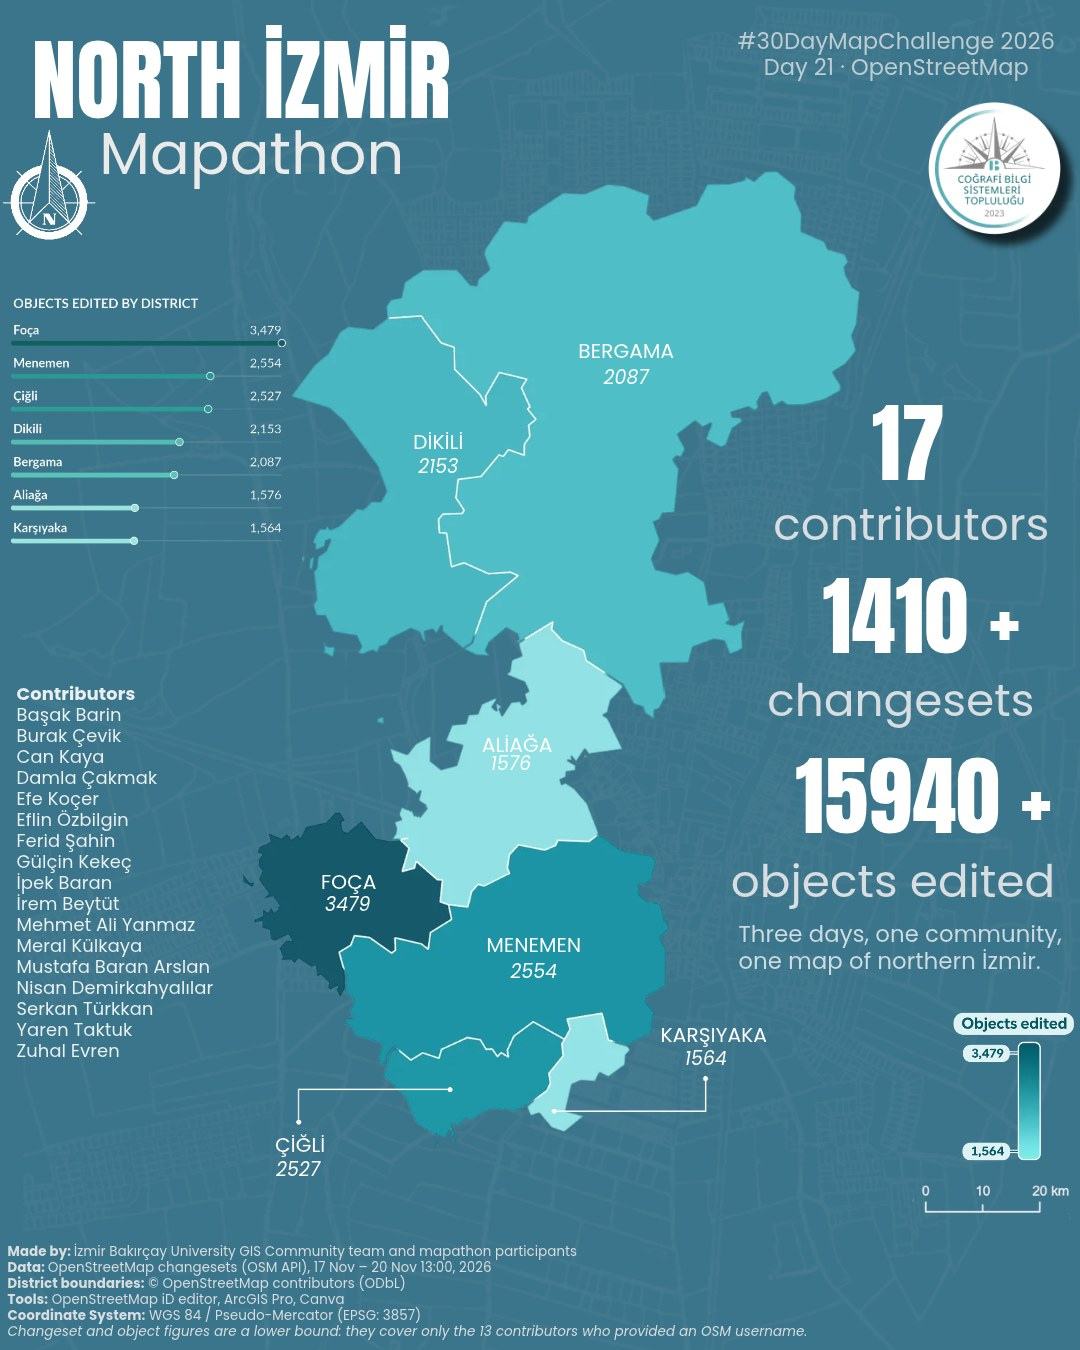
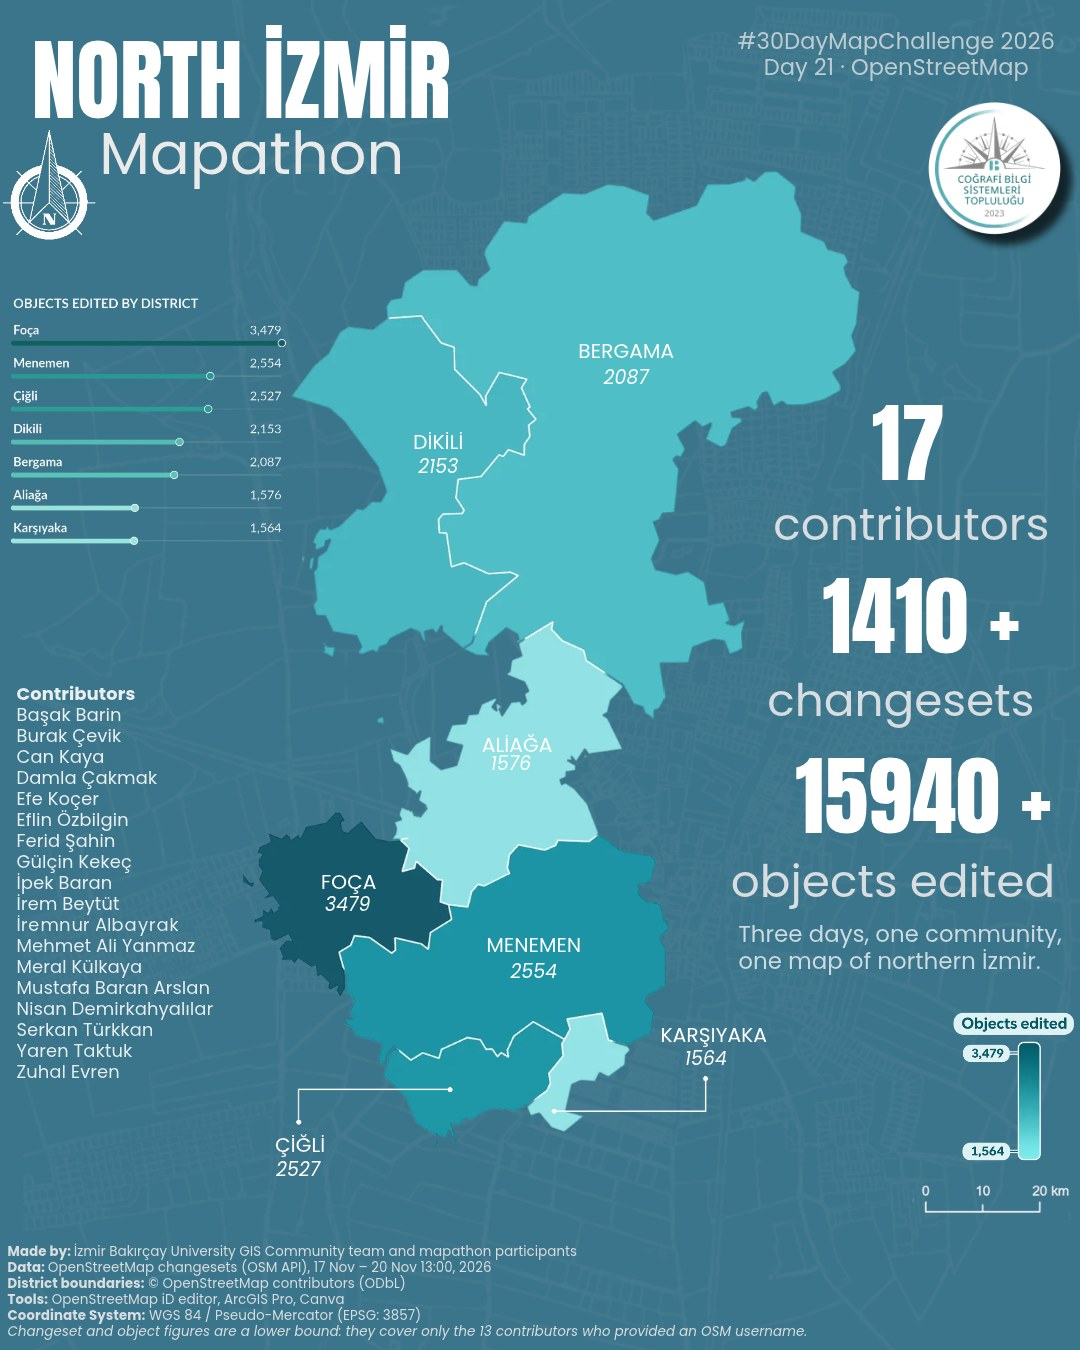
Güncelleme

Changed region(s): [[0.0, 0.6844, 0.2139, 0.8089]]

diff --git a/assets/data.js b/assets/data.js
@@ -187,7 +187,7 @@ window.KOLEKSIYON = [
   {"n": 18, "date": "2026-11-18", "title": "The Wallace Line", "author": "İrem Beytüt", "ig": "https://www.instagram.com/irembeytutt/", "li": "https://www.linkedin.com/in/irem-beytüt-95b25a448", "image": "maps/gun18.jpg", "data": "Natural Earth, Cultural and Physical Vector data", "tool": "ArcGIS Pro, Canva / Illustrator", "link": ""},
   {"n": 19, "date": "2026-11-19", "title": "Can a Map Have a Scent?", "author": "Nisan Demirkahyalılar", "ig": "https://www.instagram.com/nisandemirk_/", "li": "https://www.linkedin.com/in/nisan-demirkahyalılar-75594840a", "image": "maps/gun19.jpg", "data": "Wikimedia Commons Botanical Database,Copernicus DEM(2011-2015),Humanitarian Data Exchange (HDX),Wikimedia.org", "tool": "ArcGIS Pro, Canva / Illustrator", "link": ""},
   {"n": 20, "date": "2026-11-20", "title": "Türkiye's Honeybee Colonies", "author": "Mustafa Baran Arslan", "ig": "", "li": "https://www.linkedin.com/in/mustafa-baran-arslan-4625a5294/", "image": "maps/gun20.jpg", "data": "TÜİK 2025, Arıcılık Araştırma Enstitüsü", "tool": "ArcGIS Pro, GIMP", "link": ""},
-  {"n": 21, "date": "2026-11-21", "title": "North İzmir Mapathon", "author": "BakırçayCBS ekibi", "ig": "https://www.instagram.com/bakircaycbs/", "li": "https://www.linkedin.com/in/izmir-bak%C4%B1r%C3%A7ay-cbs-toplulu%C4%9Fu-49ba323bb/", "image": "maps/gun21.jpg", "data": "OpenStreetMap değişiklik setleri (OSM API), 17–20 Kasım 2026 · © OpenStreetMap contributors", "tool": "OpenStreetMap iD editörü, ArcGIS Pro, Canva", "link": ""},
+  {"n": 21, "date": "2026-11-21", "title": "North İzmir Mapathon", "author": "BakırçayCBS ekibi ve mapathon katılımcıları (İremnur Albayrak dahil)", "ig": "https://www.instagram.com/bakircaycbs/", "li": "https://www.linkedin.com/in/izmir-bak%C4%B1r%C3%A7ay-cbs-toplulu%C4%9Fu-49ba323bb/", "image": "maps/gun21.jpg", "data": "OpenStreetMap değişiklik setleri (OSM API), 17–20 Kasım 2026 · © OpenStreetMap contributors", "tool": "OpenStreetMap iD editörü, ArcGIS Pro, Canva", "link": ""},
   {"n": 22, "date": "2026-11-22", "title": "Planetary Projections of Mars", "author": "Efe Coşkun Dönmez", "ig": "https://www.instagram.com/efednmz34/", "li": "https://linkedin.com/in/efe-coşkun-dönmez-b98373381", "image": "maps/gun22.jpg", "data": "NASA / USGS — Mars Orbiter Laser Altimeter (MOLA) DEM, 1997–2001", "tool": "ArcGIS Pro", "link": ""},
   {"n": 23, "date": "2026-11-23", "title": "Grapes of the Aegean", "author": "Başak Barin", "ig": "https://www.instagram.com/basakbarn/", "li": "https://www.linkedin.com/in/başak-barin-a95470363", "image": "maps/gun23.jpg", "data": "TÜRKPATENT (Geographical Indications), Wikipedia (Grape Varieties and Uses), © OpenStreetMap contributors (Geographic Boundaries).", "tool": "ArcGIS Pro, Canva / Illustrator", "link": ""},
 ];
